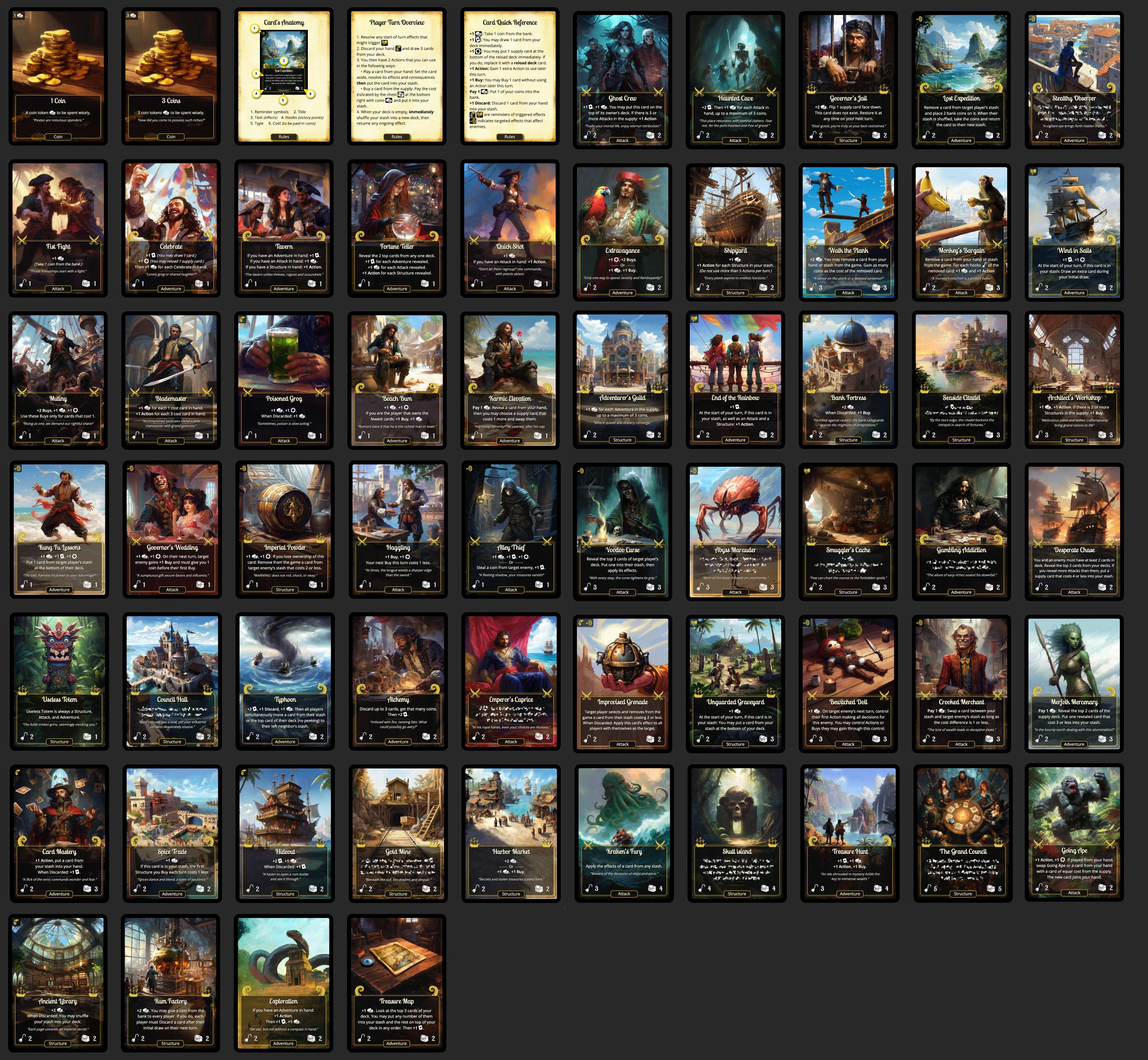
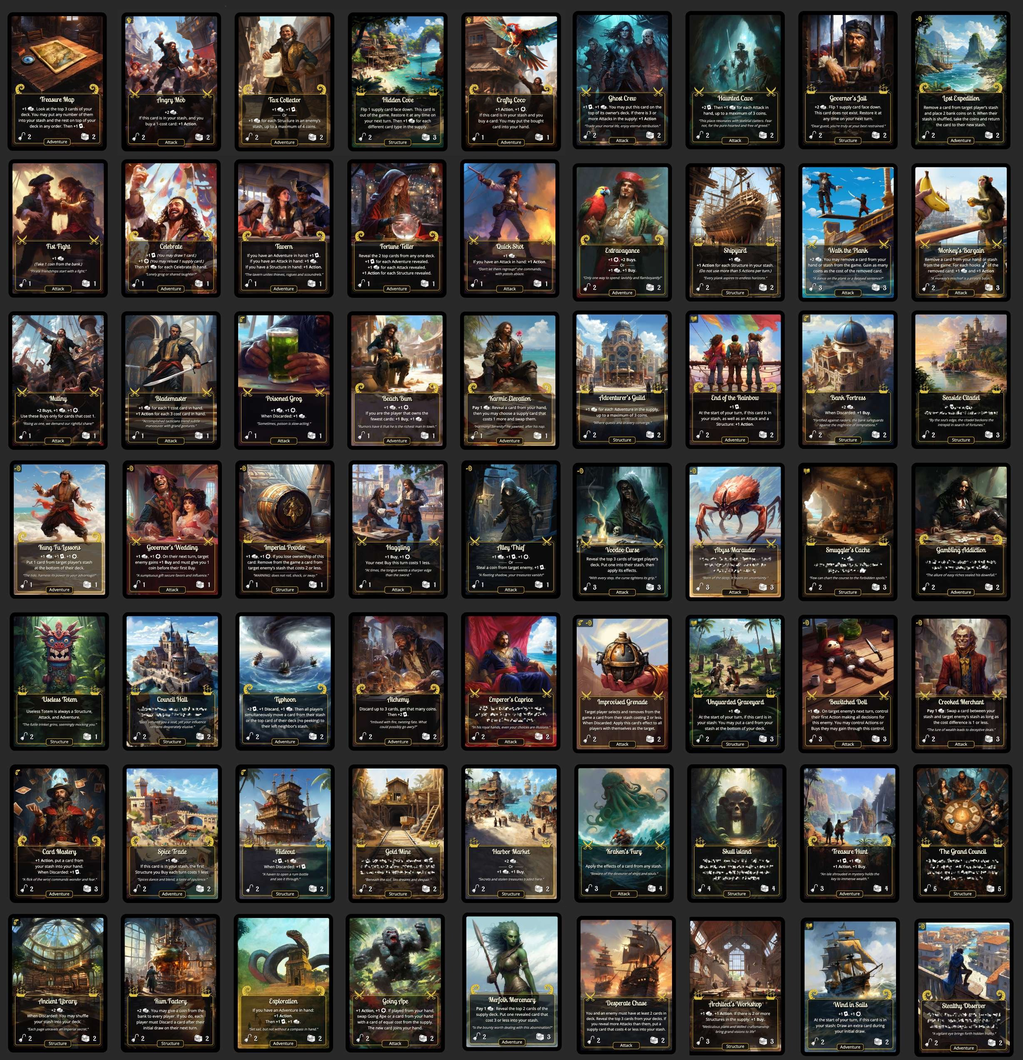
Update cards

diff --git a/deckhand/index.html b/deckhand/index.html
@@ -207,7 +207,8 @@
 
             <ul class="text-column">
                 <li>The Rules Booklet</li>
-                <li>17x Coin Tokens</li>
+                <li>4x Coins</li>
+                <li>4x Coin Indicator</li>
                 <li>8x Fist Fight</li>
                 <li>8x Celebrate</li>
                 <li>1x Tavern</li>
@@ -267,6 +268,10 @@
                 <li>1x Skull island</li>
                 <li>1x Treasure Hunt</li>
                 <li>1x The Grand Council</li>
+                <li>1x Angry Mob</li>
+                <li>1x Tax Collector</li>
+                <li>1x Hidden Cove</li>
+                <li>1x Crafty Coco</li>
             </ul>
 
             <img src="marketing/all-cards.jpg" width="100%">

diff --git a/deckhand/design.html b/deckhand/design.html
@@ -681,7 +681,7 @@
                         
 
                         <div class="mpc">
-                            <img src="pnp.png" />
+                            <img src="mpc-no-border.png" />
                         </div>
                         <div class="mask"></div>
                     </div>
